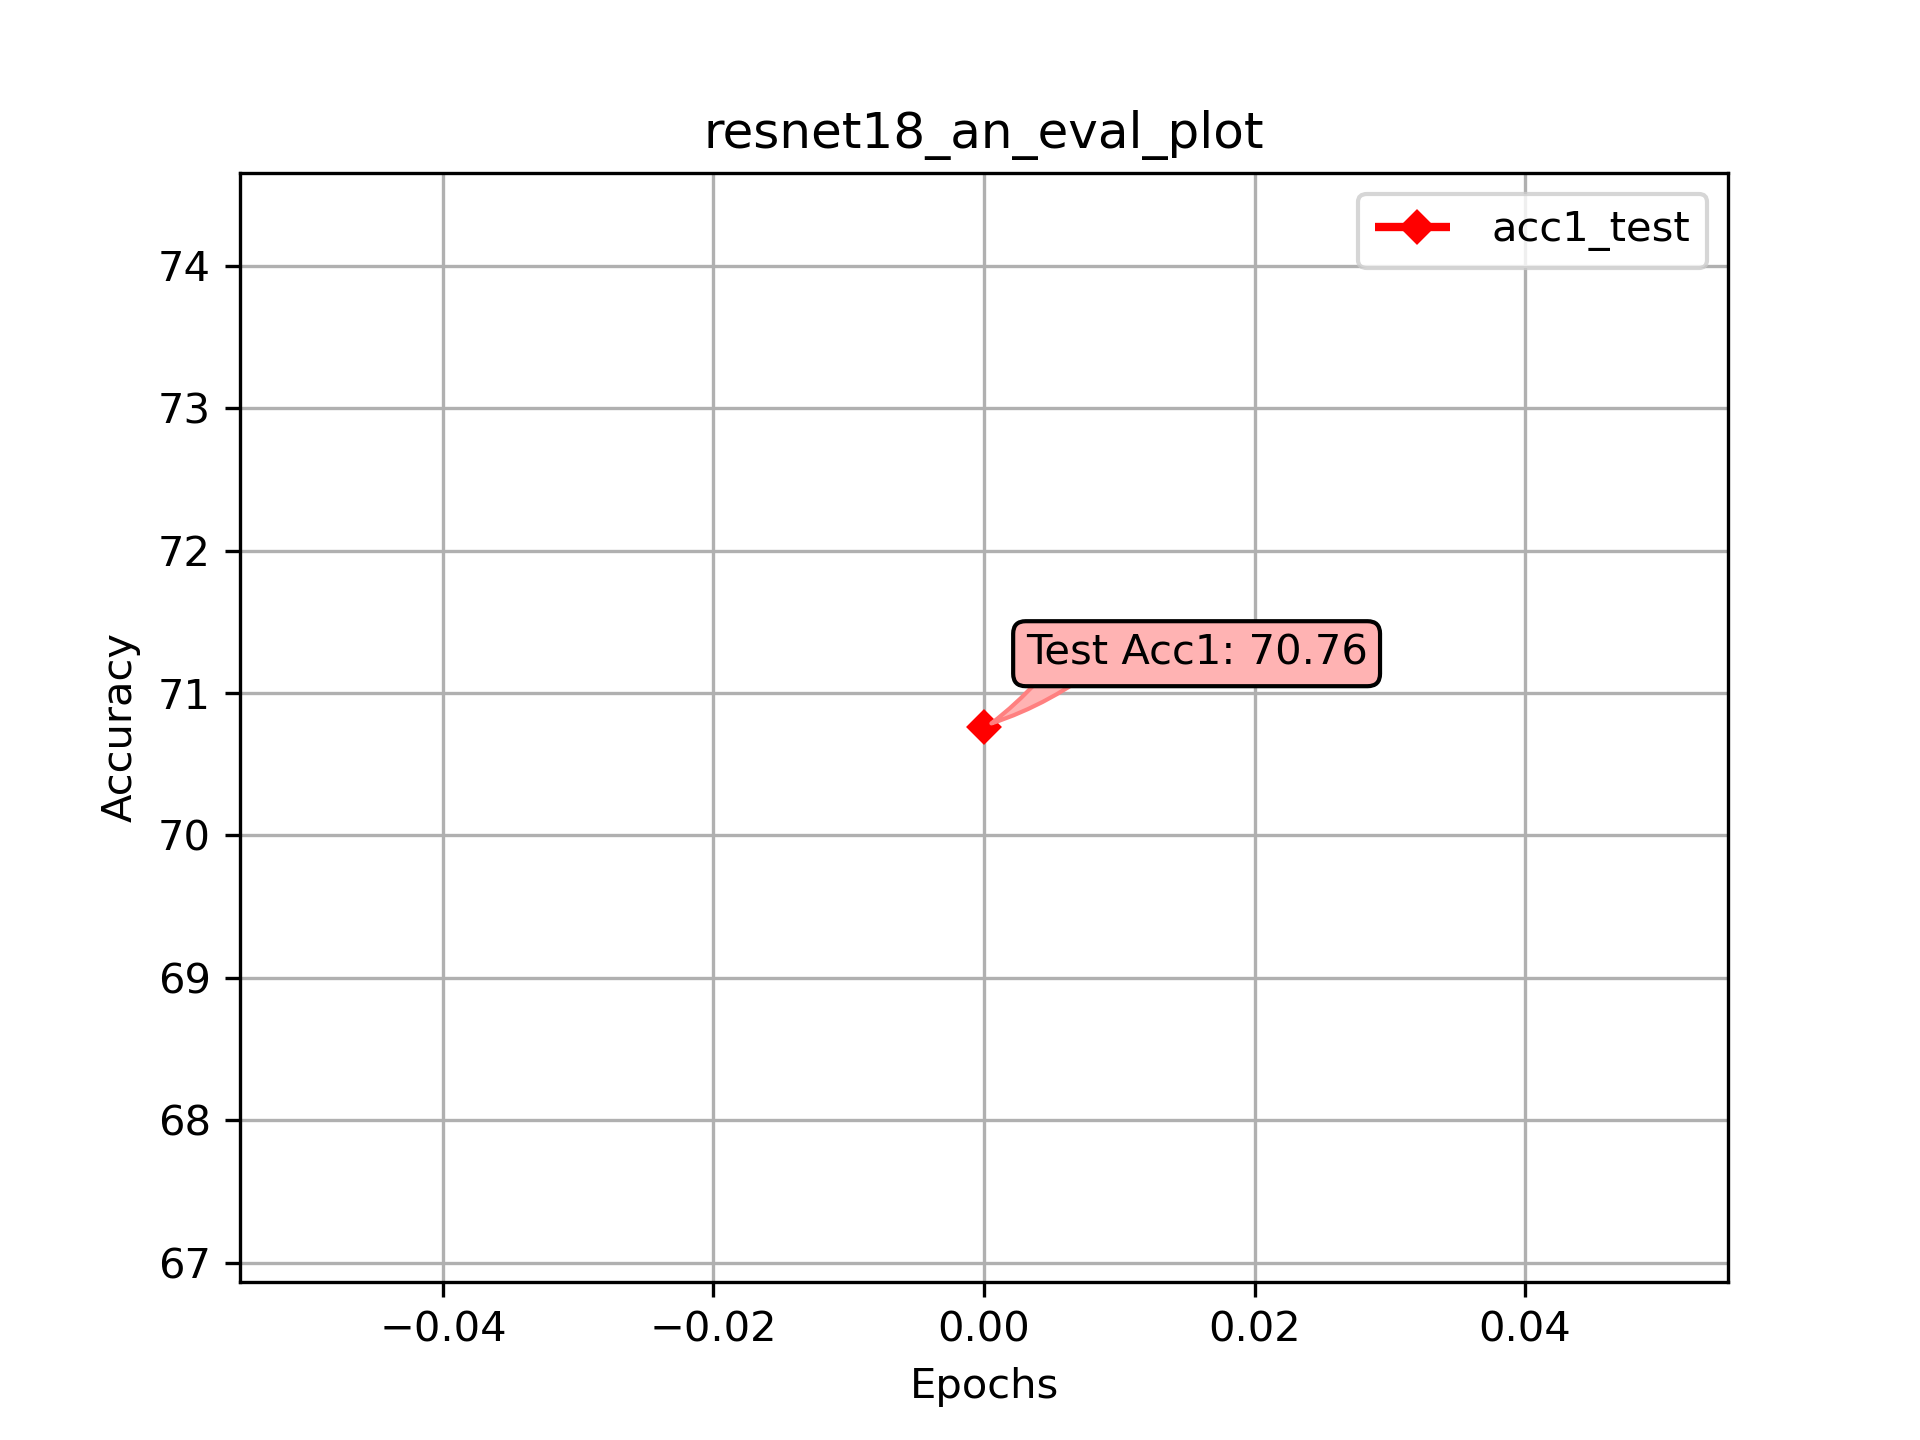
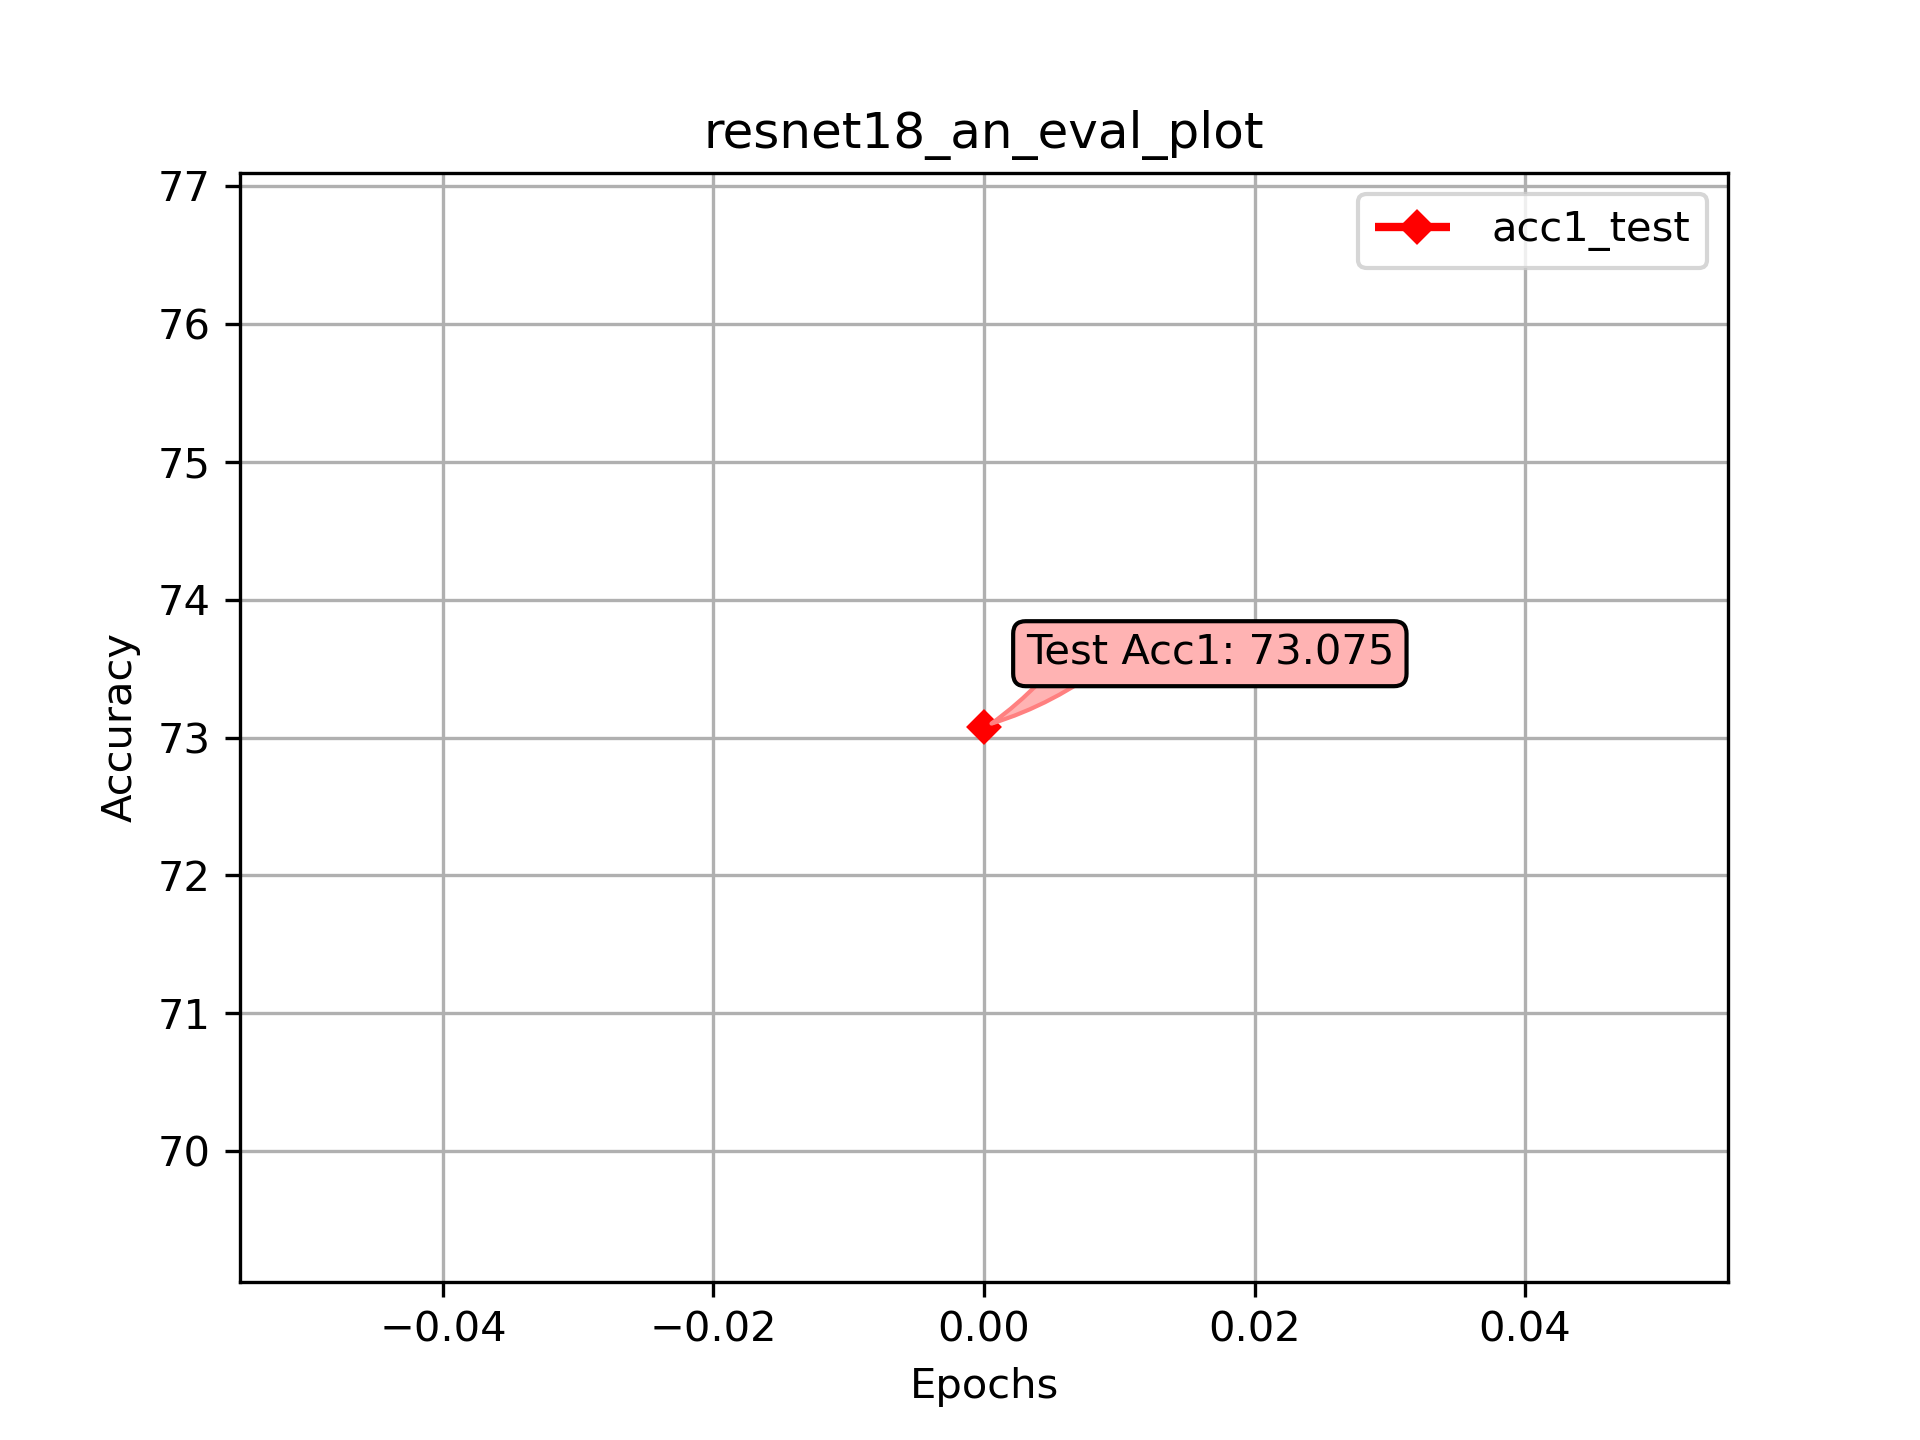
Updated resnet18_an with same ADAM optim. Raised results.

diff --git a/imc_main.py b/imc_main.py
@@ -25,7 +25,7 @@ random.seed(12)
 # =============================================================
 # SELECT: Model, Name, and test_only
 # =============================================================
-model_name = "resnet18_bn"
+model_name = "resnet18_an"
 model = resnet18(pretrained=False)
 # model_name = "resnet50_an"
 # model = resnet50(pretrained=False)
@@ -33,20 +33,20 @@ model = resnet18(pretrained=False)
 # model = NaberNet(0)
 
 # Whether the main should just run a test, or do a full fit.
-# only_test = True
-only_test = False
+only_test = True
+# only_test = False
 batchsize = 8       # Chosen for the GPU: RTX 2060
 
 # Loading a pretrained model
-model_loaded = False
-# model_loaded = True
-# model = torch.load(dir_models + model_name + ".pth")
+model_loaded = only_test
+if model_loaded:
+    model = torch.load(dir_models + model_name + ".pth")
 
 # =============================================================
 # SELECT: Dataset Name
 # =============================================================
-# SET_NAME = "UCSD AI4H"              # Contains 746 images.        (Set A)
-SET_NAME = "SARS-COV-2 CT-SCAN"     # Contains 2,481 images.      (Set B)
+SET_NAME = "UCSD AI4H"              # Contains 746 images.        (Set A)
+# SET_NAME = "SARS-COV-2 CT-SCAN"     # Contains 2,481 images.      (Set B)
 # SET_NAME = "COVIDx CT-1"            # Contains 115,837 images.    (Set C)
 
 if "naber" in model_name and not model_loaded and 'ucsd' not in SET_NAME.lower():
@@ -63,8 +63,8 @@ optimizer = optim.Adam(model.parameters(), lr=learning_rate)
 # =============================================================
 if "UCSD" in SET_NAME:
     CLASSES = ['UCSD_NC', 'UCSD_CO']
-    IMGSIZE = 224
-    EPOCHS = 10
+    IMGSIZE = 512
+    EPOCHS = 12
     normalize = transforms.Normalize(mean=0.6292, std=0.3024)
 elif "SARS" in SET_NAME:
     CLASSES = ['SARSCT_NC', 'SARSCT_CO']
